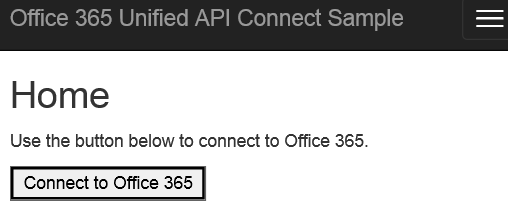
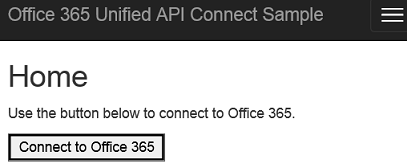
resize images

diff --git a/rest-api/Microsoft.Graph/conceptual-topics/connect-step-by-step-walkthroughs/connect-step-by-step-AspNetMVC.md b/rest-api/Microsoft.Graph/conceptual-topics/connect-step-by-step-walkthroughs/connect-step-by-step-AspNetMVC.md
@@ -3,9 +3,12 @@
 In this article we look at the minimum tasks required to connect your application to Office 365 and call the Microsoft Graph API. This topic won't create an app from scratch. We use code from [Office 365 ASP.NET MVC Connect sample using Microsoft Graph API](https://github.com/OfficeDev/O365-AspNetMVC-Unified-API-Connect) to explain the main concepts that you have to implement in your app.
 
 The following is the screenshot of the home page.
+
 ![Office 365 ASP.NET MVC sample screenshot](./images/O365AspNetMVCHomePageScreenshot.png)
 
+
 The following is the screenshot of the send mail page.
+
 ![Office 365 ASP.NET MVC sample screenshot](./images/O365AspNetMVCSendMailPageScreenshot.png)
 
 ## Prerequisites  
@@ -310,7 +313,7 @@ Another task is to construct a valid JSON message string and send it to the ``me
 
 ```
 <a name="logout"></a>
-## Discoonect the session
+## Disconnect the session
 
 When the user clicks **Disconnect** in the send mail page, the user will be logout of the session. The code does this by 
 * Clearing the local session
